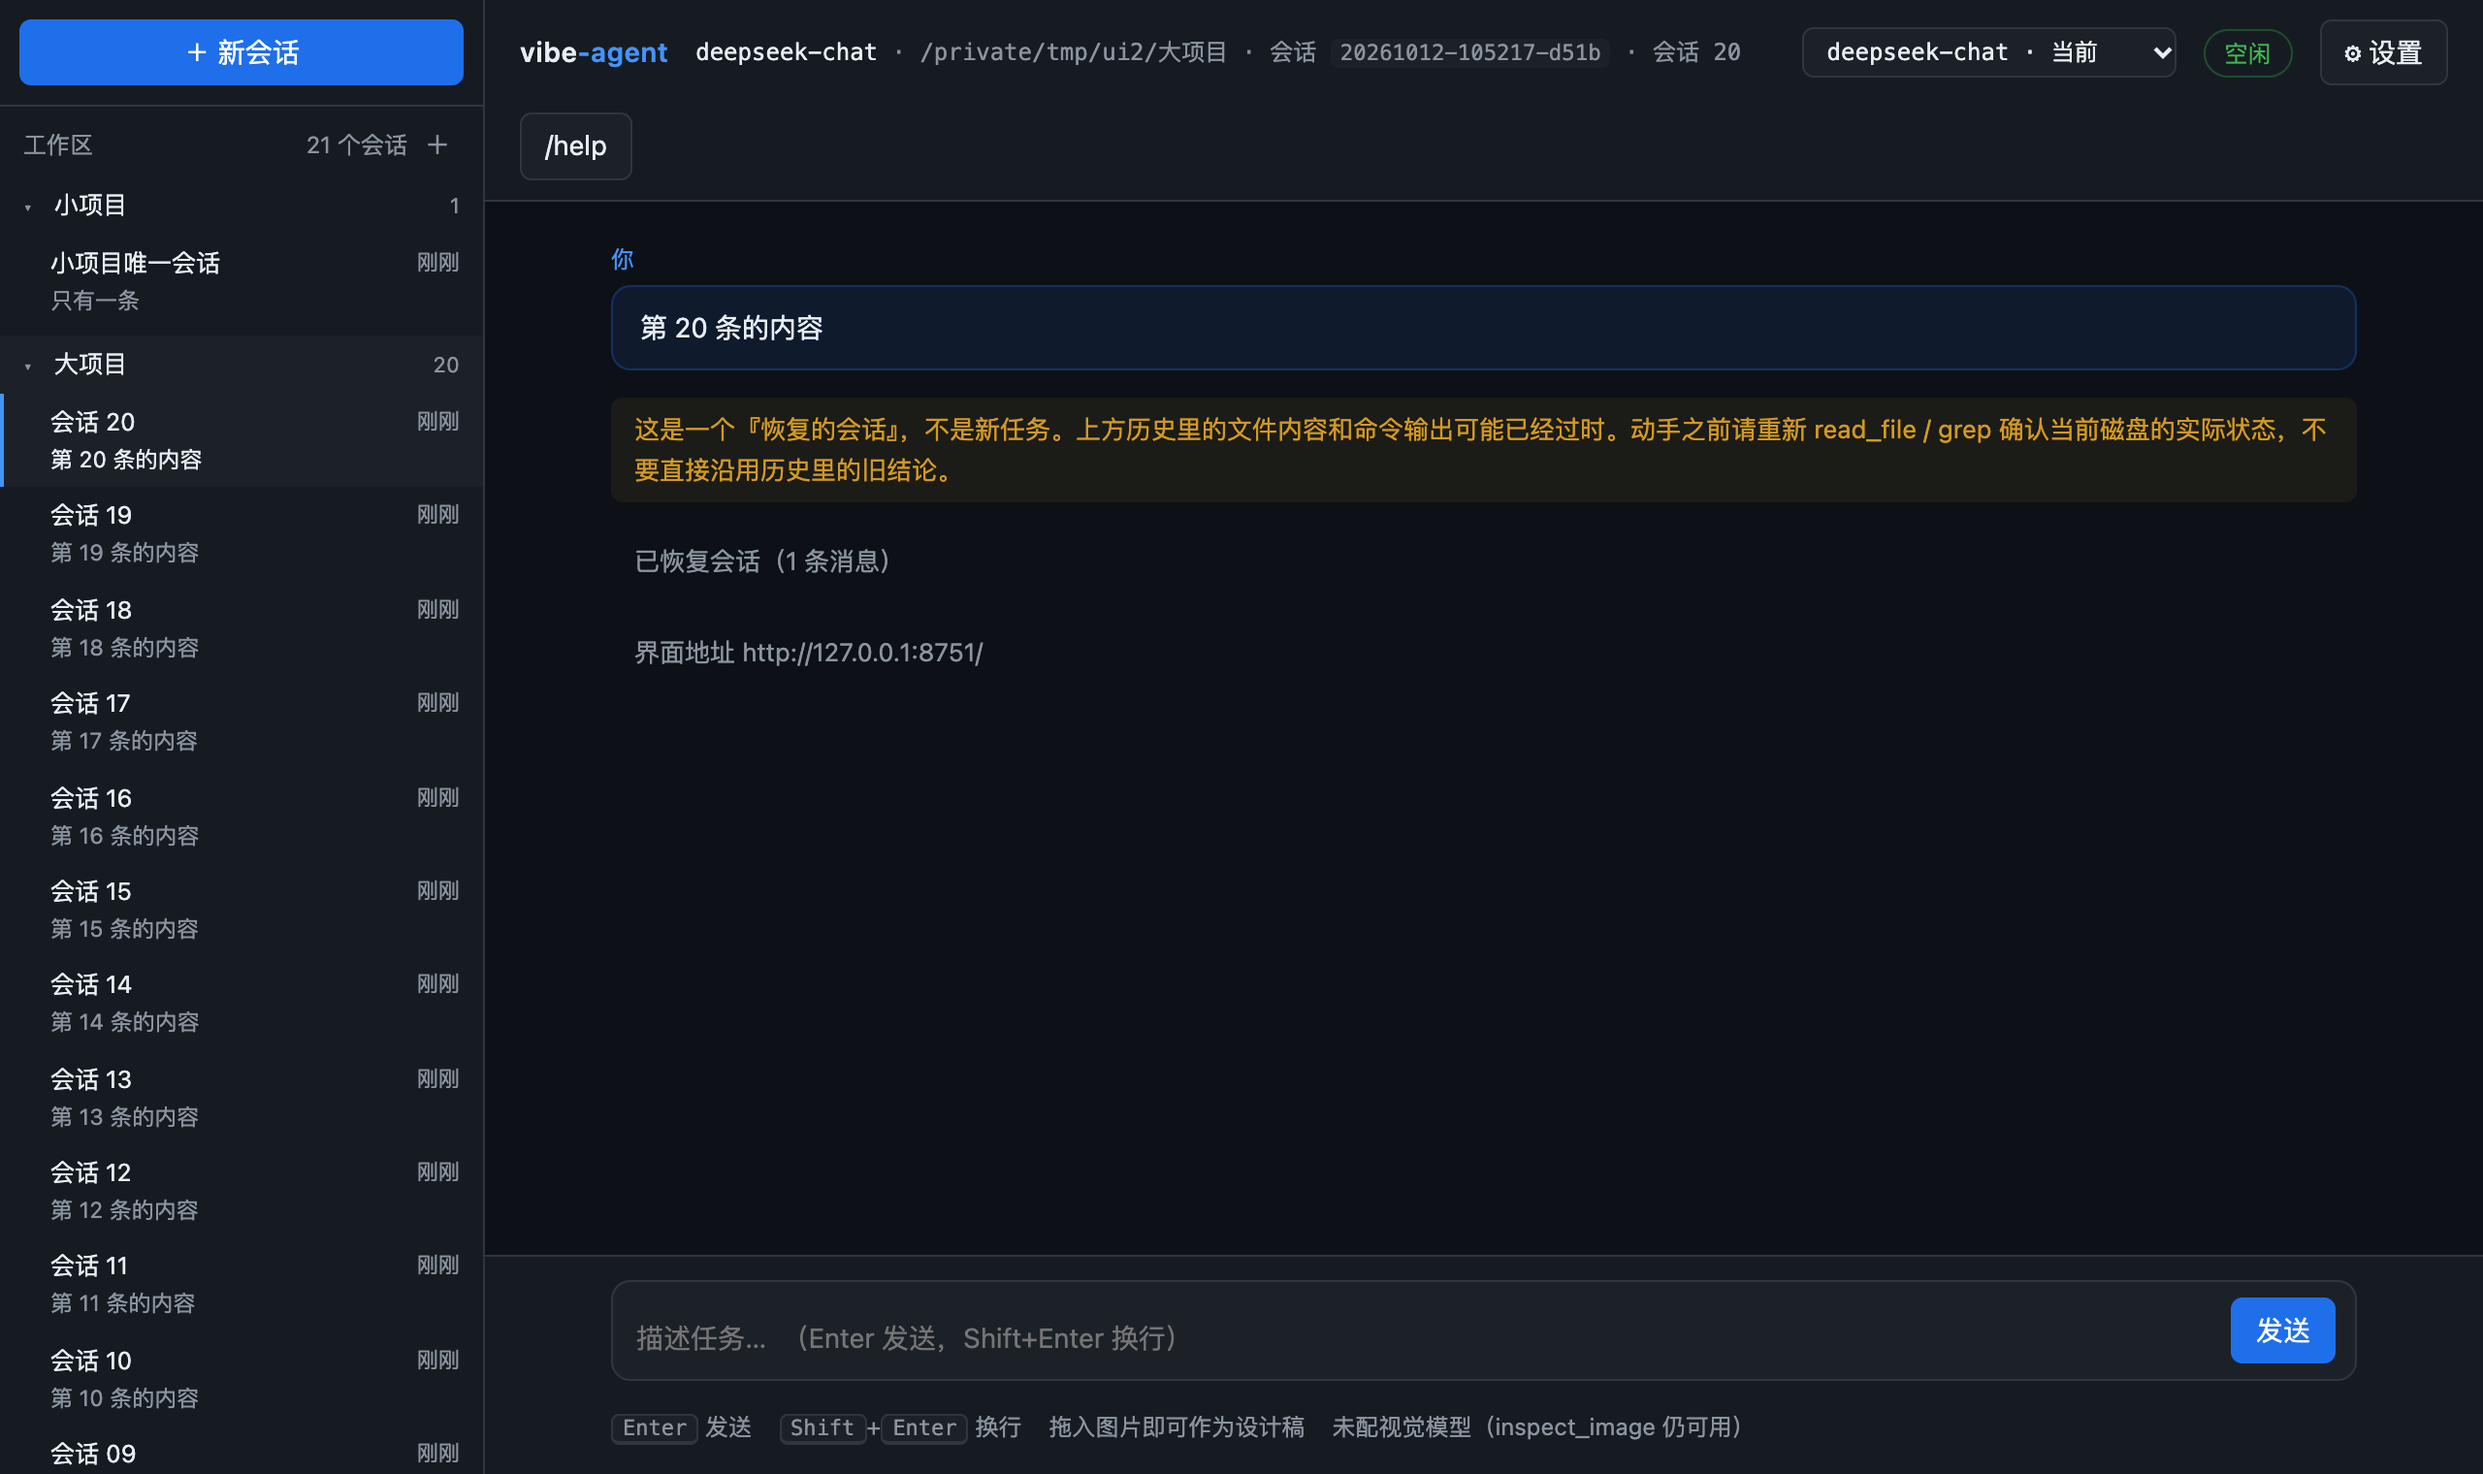
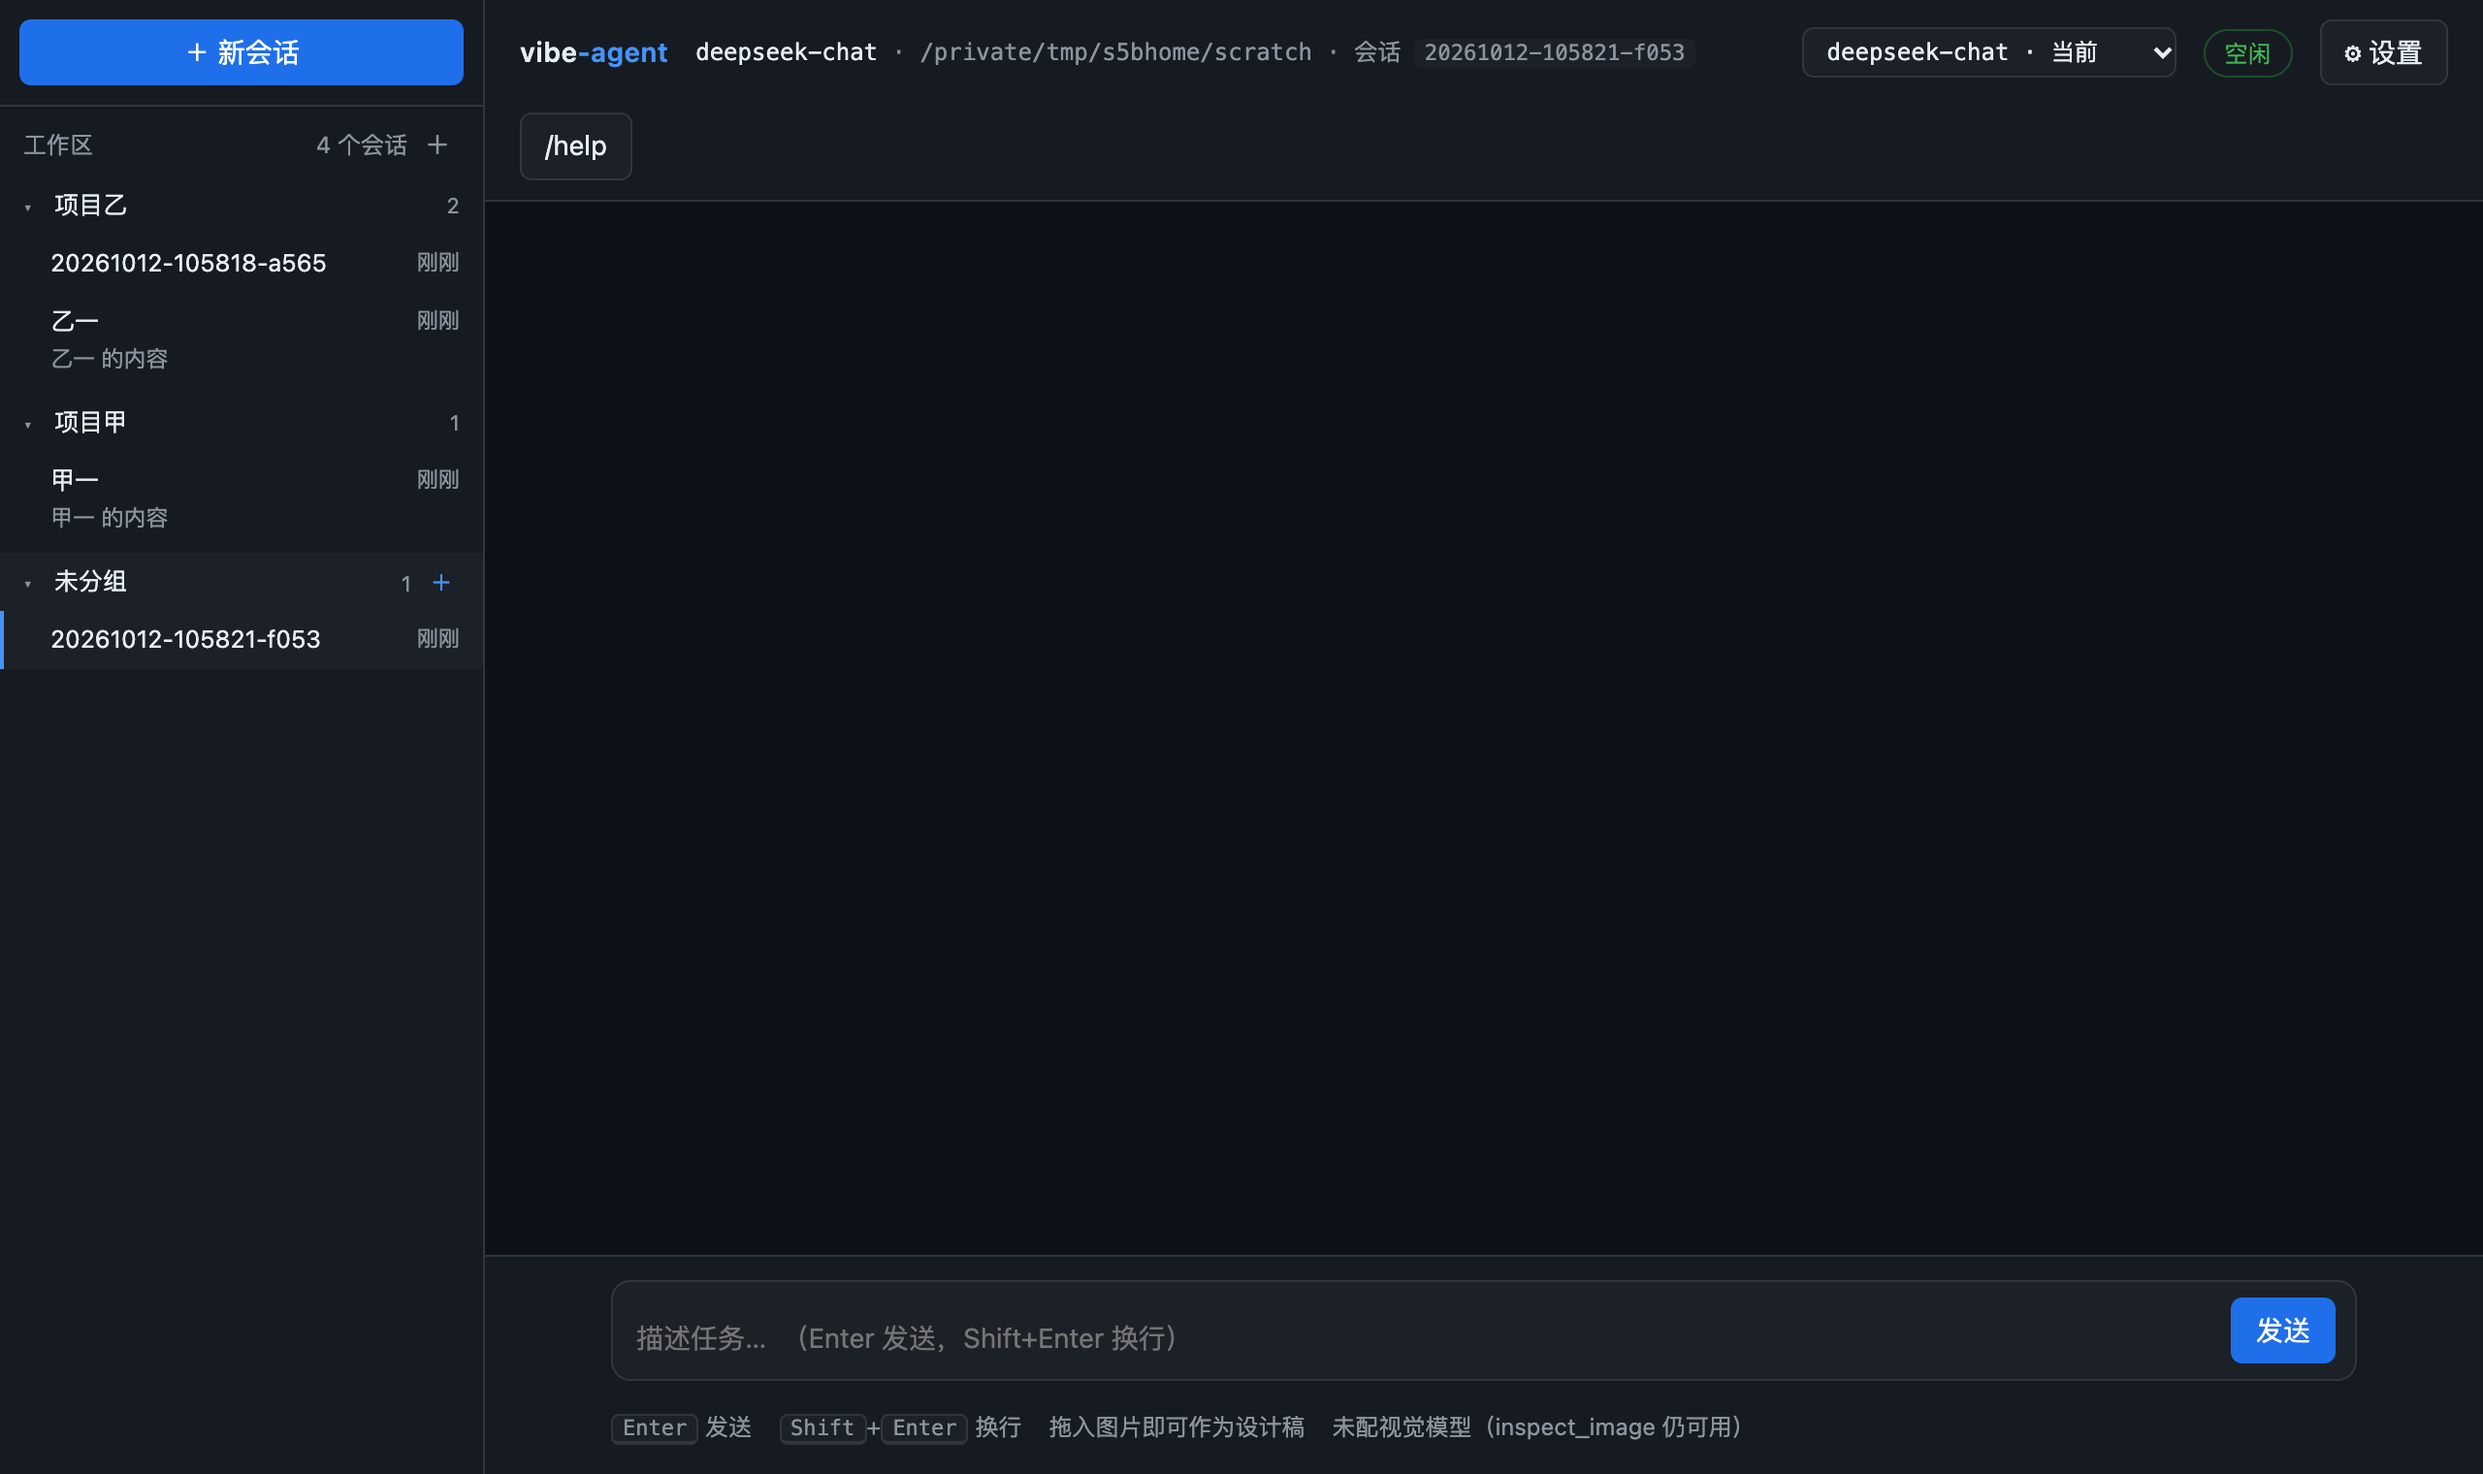
feat: 未分组会话 + 默认工作区（多会话第四步）
**未分组**：不选项目直接开一个会话。它也有一个**真实目录**
（`<数据根>/scratch/`）当工作区，所以沙箱照常生效——
不为它开任何特例。

入口：
- 「未分组」块**常驻**，即使没有会话（否则第一次根本进不去）
- 每个工作区块标题上加了 **＋**，在那个工作区里新建会话
- 顶部的「＋ 新会话」仍然建在**当前会话的工作区**里

**默认工作区**可在设置里指定，留空则用数据根下的 `workspace/`。
选的是个真实存在的目录，而不是「当前目录」这种随启动位置变的东西。

**修了一个真 bug**：`set_default("")` 存成了 `"."`。
`str(Path(""))` 就是 `"."`，于是「清空默认工作区」会把它变成
「启动时所在目录」——正是要避免的随启动位置变的东西。
现在空串明确表示「没设」。

顺带：测试里比较路径时两边都 `resolve()`——
macOS 上 `/var` 是 `/private/var` 的软链，不 resolve 会假失败。

验证：让 `set_default` 退回旧写法 → 1 个测试失败。

测试从 997 增至 1004。

diff --git a/va/web/static/index.html b/va/web/static/index.html
@@ -301,6 +301,13 @@
   }
   .sess-more:hover { text-decoration: underline; }
 
+  .ws-head .ws-add {
+    background: none; border: none; color: var(--muted); cursor: pointer;
+    font-size: 13px; line-height: 1; padding: 0 3px; display: none;
+  }
+  .ws-head:hover .ws-add { display: inline-block; }
+  .ws-head .ws-add:hover { color: var(--accent); }
+
 </style>
 </head>
 <body>
@@ -427,6 +434,17 @@ projects/&lt;项目名-哈希&gt;/sessions/      这个项目的对话记录</pr
             <span>每次回复后自动同步</span>
           </label>
 
+        </div>
+      </div>
+
+      <div class="field">
+        <label>默认工作区</label>
+        <div class="desc">
+          不选项目时新会话用哪个目录。留空则用数据目录下的 <code>workspace/</code>。
+        </div>
+        <div class="row-after">
+          <button id="set-default-workspace">选择文件夹…</button>
+          <span class="hint-inline" id="set-default-workspace-path"></span>
         </div>
       </div>
 
@@ -828,6 +846,15 @@ async function loadSidebar() {
     return;
   }
 
+  // 「未分组」常驻——它是「不选项目直接开一个」的入口，
+  // 没有会话时也得能点，否则第一次根本进不去
+  if (!blocks.some((b) => b.kind === "ungrouped")) {
+    blocks.push({
+      kind: "ungrouped", slug: "ungrouped", name: "未分组",
+      path: "", exists: true, sessions: [],
+    });
+  }
+
   list.innerHTML = "";
   for (const block of blocks) {
     const key = block.slug || block.name;
@@ -844,12 +871,17 @@ async function loadSidebar() {
     head.innerHTML =
       `<span class="caret">${isCollapsed ? "▸" : "▾"}</span>` +
       `<span class="ws-name">${escapeHtml(block.name)}</span>` +
-      `<span class="ws-count">${total}</span>`;
+      `<span class="ws-count">${total}</span>` +
+      `<button class="ws-add" title="在这个工作区里新建会话">＋</button>`;
     // 点标题折叠/展开——折叠之后不显示里面的会话
     head.addEventListener("click", () => {
       if (collapsed.has(key)) collapsed.delete(key);
       else collapsed.add(key);
       loadSidebar();
+    });
+    head.querySelector(".ws-add").addEventListener("click", (ev) => {
+      ev.stopPropagation();   // 别顺手把这块折叠了
+      newSession(block.kind === "ungrouped" ? "ungrouped" : block.path);
     });
     wrap.appendChild(head);
 
@@ -966,11 +998,13 @@ async function removeSession(session) {
   await refreshHead();
 }
 
-async function newSession() {
+async function newSession(workspace) {
+  // 不传 workspace 就建在**当前会话的工作区**里；
+  // 传 "ungrouped" 建到未分组；传路径就建到那个工作区。
   const result = await fetch("/api/sessions", {
     method: "POST",
     headers: { "Content-Type": "application/json" },
-    body: JSON.stringify({}),   // 默认建在当前会话的工作区里
+    body: JSON.stringify(workspace ? { workspace } : {}),
   }).then((r) => r.json());
   if (!result.ok) {
     pushNote("warn", result.error || "新建失败");
@@ -1001,6 +1035,19 @@ async function addWorkspace() {
     return;
   }
   await loadSidebar();
+}
+
+async function setDefaultWorkspace() {
+  const picked = await fetch("/api/pick-folder?prompt=" + encodeURIComponent("选择默认工作区"))
+    .then((r) => r.json()).catch(() => null);
+  if (!picked || !picked.ok) return;
+  const result = await fetch("/api/workspaces", {
+    method: "POST",
+    headers: { "Content-Type": "application/json" },
+    body: JSON.stringify({ default: true, path: picked.path }),
+  }).then((r) => r.json());
+  $("set-msg").textContent = result.ok ? "✓ 默认工作区已设置" : "✗ " + (result.error || "");
+  if (result.ok) await loadSidebar();
 }
 
 async function openSession(sessionId) {
@@ -1717,6 +1764,7 @@ $("set-session-dir").addEventListener("input", (e) => {
 
 $("new-session").addEventListener("click", newSession);
 $("add-workspace").addEventListener("click", addWorkspace);
+$("set-default-workspace").addEventListener("click", setDefaultWorkspace);
 
 $("btn-settings").addEventListener("click", openSettings);
 $("settings-close").addEventListener("click", closeSettings);

diff --git a/tests/test_session_switch.py b/tests/test_session_switch.py
@@ -365,3 +365,84 @@ class TestWorkspaceManagement(SwitchTestCase):
     def test_remove_unknown(self):
         app = self.app_with(self.make("p1", "A", "a"))
         self.assertFalse(app.remove_workspace("nope")["ok"])
+
+
+class TestUngroupedSessions(SwitchTestCase):
+    """「不选项目直接开一个」。
+
+    未分组会话也有一个**真实目录**（scratch），所以沙箱照常生效——
+    不为它开任何特例。
+    """
+
+    def test_ungrouped_lands_in_scratch(self):
+        from va.paths import scratch_dir
+
+        app = self.app_with(self.make("p1", "A", "a"))
+        result = app.create_session("ungrouped")
+        self.assertTrue(result["ok"], result.get("error"))
+        # 两边都 resolve：macOS 上 /var 是 /private/var 的软链
+        self.assertEqual(Path(app.workspace.root).resolve(), Path(scratch_dir()).resolve())
+
+    def test_scratch_is_created_on_demand(self):
+        """第一次用的时候 scratch 可能还不存在。"""
+        import shutil
+
+        from va.paths import scratch_dir
+
+        shutil.rmtree(scratch_dir(), ignore_errors=True)
+        app = self.app_with(self.make("p1", "A", "a"))
+        self.assertTrue(app.create_session("ungrouped")["ok"])
+        self.assertTrue(scratch_dir().is_dir())
+
+    def test_ungrouped_session_is_grouped_as_ungrouped(self):
+        from va.projects import GROUP_UNGROUPED, group_sessions, index_sessions
+
+        app = self.app_with(self.make("p1", "A", "a"))
+        app.create_session("ungrouped")
+
+        grouped = group_sessions(index_sessions())
+        ids = [e.id for e in grouped[GROUP_UNGROUPED]]
+        self.assertIn(app.active_id, ids)
+
+    def test_creating_in_one_workspace_does_not_affect_another(self):
+        """在项目乙建一条，项目甲的数量不该变。"""
+        from va.projects import GROUP_WORKSPACE, group_sessions, index_sessions
+
+        self.make("p1", "甲一", "a")
+        other = self.root / "p2"
+        other.mkdir()
+        app = self.app_with(self.make("p1", "甲二", "b"))
+        before = len(group_sessions(index_sessions())[GROUP_WORKSPACE])
+
+        app.create_session(str(other))
+
+        after = len(group_sessions(index_sessions())[GROUP_WORKSPACE])
+        self.assertEqual(after, before + 1)
+
+
+class TestDefaultWorkspace(SwitchTestCase):
+    def test_default_can_be_set_and_read(self):
+        from va.projects import Registry
+
+        app = self.app_with(self.make("p1", "A", "a"))
+        target = self.root / "p1"
+        result = app.update_settings({"default_workspace": str(target)})
+        self.assertTrue(result["ok"], result.get("error"))
+        self.assertEqual(Path(Registry.load().effective_default()), target)
+
+    def test_setting_default_rejects_a_non_directory(self):
+        app = self.app_with(self.make("p1", "A", "a"))
+        result = app.update_settings({"default_workspace": str(self.root / "nope")})
+        self.assertFalse(result["ok"])
+        self.assertIn("不是有效目录", result["error"])
+
+    def test_clearing_falls_back_to_the_data_root(self):
+        from va.paths import default_workspace_dir
+        from va.projects import Registry
+
+        app = self.app_with(self.make("p1", "A", "a"))
+        app.update_settings({"default_workspace": str(self.root / "p1")})
+        app.update_settings({"default_workspace": ""})
+        self.assertEqual(
+            Path(Registry.load().effective_default()), default_workspace_dir()
+        )

diff --git a/va/web/server.py b/va/web/server.py
@@ -350,6 +350,23 @@ class WebApp:
             changed.append("session_dir")
 
         # ---- 初始化记忆仓库：整个工作流在 va/data_repo.py 里，这里只调它 ----
+        if "default_workspace" in payload:
+            from ..projects import Registry
+
+            raw = str(payload["default_workspace"] or "").strip()
+            registry = Registry.load()
+            if raw:
+                target = Path(raw).expanduser()
+                if not target.is_dir():
+                    return {"ok": False, "error": f"不是有效目录：{target}"}
+                registry.set_default(target)
+                registry.add(target)
+                notes.append(f"默认工作区设为 {target}")
+            else:
+                registry.set_default("")
+                notes.append("默认工作区已恢复成数据目录下的 workspace/")
+            changed.append("default_workspace")
+
         if payload.get("setup_data_repo"):
             from ..data_repo import run as run_setup
 
@@ -850,7 +867,18 @@ class WebApp:
         **默认建在当前会话的工作区里**——你正在某个项目里，
         点「新会话」自然是这个项目的新会话。想建到别处，先切过去。
         """
-        target = Path(workspace).expanduser() if workspace else Path(self.workspace.root)
+        if workspace == "ungrouped":
+            # 「未分组」：不绑项目。给它一个真实目录（scratch），
+            # 这样沙箱照常生效，不用为它开特例。
+            from ..paths import scratch_dir
+
+            target = scratch_dir()
+            try:
+                target.mkdir(parents=True, exist_ok=True)
+            except OSError as exc:
+                return {"ok": False, "error": f"建不出 scratch 目录：{exc}"}
+        else:
+            target = Path(workspace).expanduser() if workspace else Path(self.workspace.root)
         if not target.is_dir():
             return {"ok": False, "error": f"工作区不存在：{target}"}
 
@@ -1422,6 +1450,12 @@ class Handler(BaseHTTPRequestHandler):
         parsed = urlparse(self.path)
         if parsed.path == "/api/workspaces":
             payload = self._body()
+            if payload.get("default"):
+                result = self.app.update_settings(
+                    {"default_workspace": payload.get("path") or ""}
+                )
+                self._json({"ok": result.get("ok", False), **result})
+                return
             result = self.app.add_workspace(str(payload.get("path") or ""))
             self._json(result, 200 if result.get("ok") else 400)
             return

diff --git a/va/projects.py b/va/projects.py
@@ -200,7 +200,13 @@ class Registry:
         self.save()
 
     def set_default(self, path: str | Path) -> None:
-        self.default_workspace = str(Path(path).expanduser())
+        """设默认工作区。**空串表示「没设」**，不是「当前目录」。
+
+        ``str(Path(""))`` 是 ``"."``，直接存下去会把默认工作区变成
+        「启动时所在目录」——那是随启动位置变的东西，正是要避免的。
+        """
+        raw = str(path or "").strip()
+        self.default_workspace = str(Path(raw).expanduser()) if raw else ""
         self.save()
 
     def effective_default(self) -> str:
